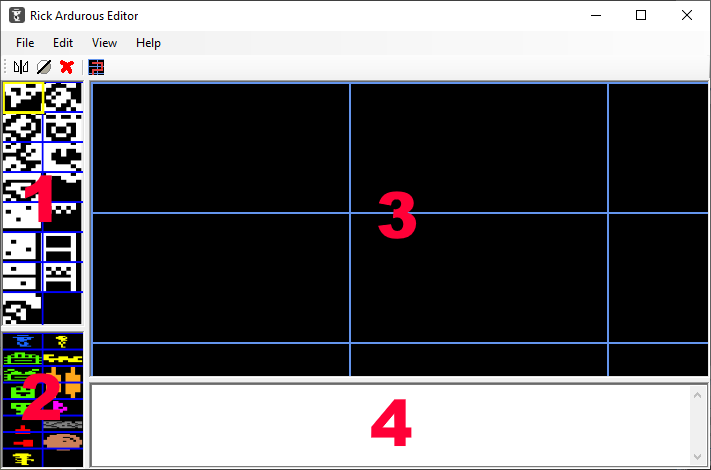
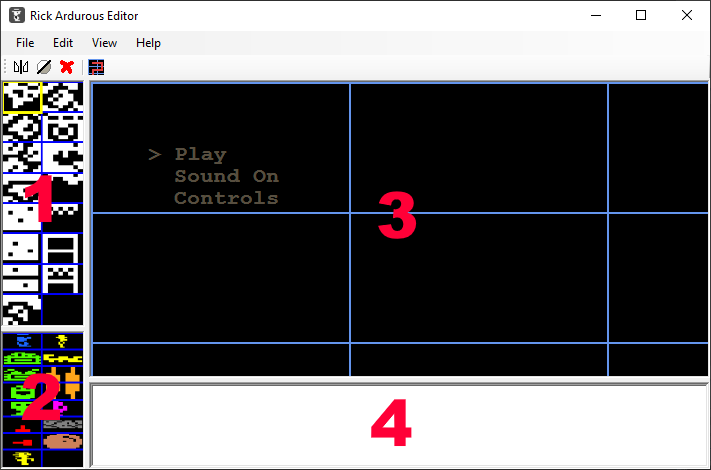
+ add all the images of the wall sprites and items for the doc + add a chapter for the special main menu puzzle screen | update the overview image

Changed region(s): [[0.0, 0.1489, 0.1238, 1.0], [0.1238, 0.0, 1.0, 1.0], [0.2475, 0.2979, 0.4023, 0.4468]]

diff --git a/Doc/Index.html b/Doc/Index.html
@@ -40,7 +40,9 @@
 	td.itemName {	text-align: right;
 					vertical-align: top;
 					width: 20%;
+					padding-top: 4px;
 					padding-right: 10px;
+					padding-bottom: 4px;
 					border-top: solid black 1px;}
 	td.itemFamily {	text-align: center;
 					vertical-align: top;
@@ -49,6 +51,11 @@
 					border-top: solid black 1px;}
 	td.itemDesc {	border-top: solid black 1px;
 					padding-bottom: 20px; }
+	span.icon	{	background-color: #c5c2ad;
+					padding: 4px;
+					margin-right: 12px;
+					display: inline-block;}
+	img.icon	{	vertical-align:middle; }
 </style>
 </head>
 <body>
@@ -70,11 +77,11 @@
 <p><i>Rick Ardurous</i> is open source. The repository is located here: <a href="https://github.com/Lswbanban/RickArdurous">https://github.com/Lswbanban/RickArdurous</a>. After cloning the repository you will find several folders:
 <ul>
 	<li>The base folder contains all the source files of the game. You should open the <b>RickArdurous.ino</b> file in the Arduino IDE if you want to recompile the game.</li>
+	<li>The <b>Release</b> folder contains the last compiled version of the Editor, as well as the packed version of the game. This is were you should go if you don't want to modify and recompile the game, but just play.</li>
 	<li>The <b>Doc</b> folder contains this documentation.</li>
-	<li>The <b>image</b> folder contains the images that were used to create the game. These images are also used by the Level Editor.</li>
+	<li>The <b>image</b> folder contains the images that were used to create the game (but they are not required for the game to run). These images are also used by the Level Editor.</li>
 	<li>The <b>RickArdurousEditor</b> folder contains the source files of the editor, written in C# with Visual Studio on Windows.</li>
 	<li>The <b>Publishing</b> folder contains all the files needed to create a packed version of the game.</li>
-	<li>The <b>Release</b> folder contains the last compiled version of the Editor, as well as the packed version of the game.</li>
 </ul>
 </p>
 
@@ -82,7 +89,7 @@
 <p>If you want to modify and recompile the game, you can open the <b>RickArdurous.ino</b> file located in the base folder, with the Arduino IDE. Otherwise if you just want to launch the game as it is with a game launcher, you can open the <b>RickArdurous.arduboy</b> file located in the <b>Release</b> folder.</p>
 
 <h2>The Level Editor</h2>
-<p>After cloning the repository, to launch the Level editor on Windows platform, run the <b>RickArdurousEditor.exe</b> executable located in the <b>Release</b> folder. Do not change the folder structure, as the editor reads files located in the parent folder and in the <b>image</b> folder.</p>
+<p>After cloning the repository, to launch the Level editor on Windows platform, run the <b>RickArdurousEditor.exe</b> executable located in the <b>Release</b> folder. If you change the folder structure, the editor will have trouble to reads the files located in the parent folder and in the <b>image</b> folder, however you can change those paths in the Preferences of the Editor (through the <i>File &gt; Preferences...</i> menu).</p>
 
 <h1>Level Editor</h1>
 <h2>Overview</h2>
@@ -91,7 +98,7 @@
 <ul>
 	<li>The panel (1) lists all the 16 possible sprites for the background of the map. You should select the sprite that you want to draw on the map, from this panel.</li>
 	<li>The panel (2) lists all the available items that can be placed in each puzzle screen. You should select the item you want to add on the map before clicking on the map.</li>
-	<li>The panel (3) contains the whole map of the game. It is split by puzzle screen with blue separator lines.</li>
+	<li>The panel (3) contains the whole map of the game. It is split by puzzle screen with blue separator lines. The top left screen display the Game Main Menu for reference (see <i>Level Design Tips</i> chapter below for more details).</li>
 	<li>The panel (4) is a log window, it displays information and warnings when necessary.</li>
 </ul>
 <img src="PanelOverview.png" class="center">
@@ -141,6 +148,16 @@
 
 <h1>Level Design Tips</h1>
 
+<h2>The Special Main Menu Puzzle Screen</h2>
+
+<p>For optimization reason, the Game will use the top left puzzle screen as background for the Main Menu. This is why the editor display the 3 menu items of the main menu on this corner. You can dedicate this puzzle screen to the main menu, but you can also reuse it in the game flow by integrating it in the puzzle path (see next chapter). However when this puzzle screen is used in the Main Menu, all the items except the stalagmites, the stalactites and Rick are ignored. Also a black square background is drawn under the text of the Main Menu for clarity.</p>
+
+<h2>Puzzle Path</h2>
+
+<p>In order to be saved, your map need to create an non-branching linear puzzle path. This means each puzzle screen must have connection(s) to only 2 neighbors. You can have multiple gate from one screen to the same neighbor, but a screen cannot have gates to 3 or 4 differents neighbors. The gate can be as large as you want, you can leave the whole edge empty if you wish. However, it is recommended to add a background sprite in each corner because a corner can connect to two different neighbors. Said differently, that means two edges of each puzzle screen must be completely filled with background sprites.</p>
+
+<p>On top of respecting the puzzle path constraint, you also need to specify a starting point, and a ending point. The starting point is specified with a bright Rick Spawn Point item (add this item on the map and click on the item state button in the toolbar to make it bright) and the ending point is specified with the grail item. There can only have one bright Rick Spawn Point and one Grail item in the map. The Editor will try to follow a path between these two specific items, follwing the connections between the puzzle screens. To visualize the path found by the editor, click on the draw puzzle screen path button in the toolbar.</p>
+
 <h2>The Static Collision Sprites</h2>
 
 <p>The map are created by placing 8x8 pixels sprites on a grid. The grid of a puzzle screen contains 16 sprites horizontaly and 8 sprites verticaly. However, only two pixels of the last line of sprites will be visible. This is because the whole puzzle screen is shifted downward by 6 pixels, in order to display the HUD on top of the screen. But those 2 visible pixels of the last line can still be used to create a walking platform for the player. Also this last line of sprite will be quickly displayed in its entirety during a vertical transition of the camera, when the player enter into a new puzzle screen above or below.</p>
@@ -150,66 +167,59 @@
 <table class="center itemTable" cellspacing="0">
 	<tr><th>Sprite Number</th><th>Family</th><th>Usage</th></tr>
 	<tr>
-		<td class="itemName">1</td>
+		<td class="itemName"><span class="icon"><img src="Wall1.png" class="icon"></span>1&nbsp;</td>
 		<td class="itemFamily">Rocky</td>
 		<td class="itemDesc">This is a rocky ceiling, used to make the ceiling not too borring. If you leave only one empty sprite under it, the player will have to crawl under to pass.</td>
 	</tr><tr>
-		<td class="itemName">2 and 3</td>
+		<td class="itemName"><span class="icon"><img src="Wall2.png" class="icon"></span>2&nbsp;<br/>and <span class="icon"><img src="Wall3.png" class="icon"></span>3&nbsp;</td>
 		<td class="itemFamily">Rocky</td>
 		<td class="itemDesc">These are two variation of the the rocky texture. You can use them in alternance to create a large wall of rock.</td>
 	</tr><tr>
-		<td class="itemName">4</td>
+		<td class="itemName"><span class="icon"><img src="Wall4.png" class="icon"></span>4&nbsp;</td>
 		<td class="itemFamily">Rocky</td>
 		<td class="itemDesc">This the rocky floor. You should use it every where you want the player to wall on a rocky platform (in conjunction with the stair step).</td>
 	</tr><tr>
-		<td class="itemName">8</td>
+		<td class="itemName"><span class="icon"><img src="Wall8.png" class="icon"></span>8&nbsp;</td>
 		<td class="itemFamily">Rocky</td>
 		<td class="itemDesc">This the rocky stair step. This one can be used to create a stair. It can extend the rocky floor nicely. This sprite will automatically mirror, if you place a non empty sprite on its right, so that you can create a stair going up on the right.</td>
 	</tr><tr>
-		<td class="itemName">9</td>
+		<td class="itemName"><span class="icon"><img src="Wall9.png" class="icon"></span>9&nbsp;</td>
 		<td class="itemFamily">Rocky</td>
 		<td class="itemDesc">This is a rocky vertical wall. This one should be used if you want to finish your rocky texture nicely. This sprite will automatically mirror, if you place a non empty sprite on its right. You can also use a sprite 2 and 3 as a wall, but the wall will look quite flat, with floating pixels.</td>
 	</tr><tr>
-		<td class="itemName">12</td>
+		<td class="itemName"><span class="icon"><img src="Wall12.png" class="icon"></span>12</td>
 		<td class="itemFamily">Rocky</td>
 		<td class="itemDesc">This is another rocky ceiling, but this one is thin. Player and ennemies can walk through it, even if there's just one empty sprite under this sprite. However the player cannot crawl through this sprite. Don't place this sprite if you want the player to crawl on this line.</td>
 	</tr><tr>
-		<td class="itemName">5</td>
+		<td class="itemName"><span class="icon"><img src="Wall5.png" class="icon"></span>5&nbsp;</td>
 		<td class="itemFamily">Stone</td>
 		<td class="itemDesc">This is a stone without vertical separtion line. You can place it on the left of the sprite 6 to create a long stone.</td>
 	</tr><tr>
-		<td class="itemName">6 and 7</td>
+		<td class="itemName"><span class="icon"><img src="Wall6.png" class="icon"></span>6&nbsp;<br/>and <span class="icon"><img src="Wall7.png" class="icon"></span>7&nbsp;</td>
 		<td class="itemFamily">Stone</td>
 		<td class="itemDesc">These are two variations of the the stone texture. Be carful, the player (and potentially Arrow Launchers) can shoot through the stone 7, which is not an intended feature.</td>
 	</tr><tr>
-		<td class="itemName">10 and 11</td>
+		<td class="itemName"><span class="icon"><img src="Wall10.png" class="icon"></span>10<br/>and <span class="icon"><img src="Wall11.png" class="icon"></span>11</td>
 		<td class="itemFamily">Stone</td>
 		<td class="itemDesc">Big stone statue. The intended usage is to create a 2x2 square, by placing 2 sprite 10 next to each other, and two sprite 11 below them. Those sprites will automatically mirror if they find a copy of themselves on their left.</td>
 	</tr><tr>
-		<td class="itemName">13</td>
+		<td class="itemName"><span class="icon"><img src="Wall13.png" class="icon"></span>13</td>
 		<td class="itemFamily">Platform</td>
 		<td class="itemDesc">The basic wooden platform. The player can walk on this platform, but can also jump through it (player will go through it during the ascending part of the jump, but will detect the collision while falling down).</td>
 	</tr><tr>
-		<td class="itemName">14</td>
+		<td class="itemName"><span class="icon"><img src="Wall14.png" class="icon"></span>14</td>
 		<td class="itemFamily">Platform</td>
 		<td class="itemDesc">This is the ladder sprite. The player can climb up along the ladder. If the player jump on a ladder, he will grab it.</td>
 	</tr><tr>
-		<td class="itemName">15</td>
+		<td class="itemName"><span class="icon"><img src="Wall15.png" class="icon"></span>15</td>
 		<td class="itemFamily">Platform</td>
 		<td class="itemDesc">A combination of the platform and ladder. Use it where you want the ladder to reach the platform. Player can use the down arrow key to climb the ladder down, if their character stands above this sprite.</td>
 	</tr><tr>
-		<td class="itemName">16</td>
-		<td class="itemFamily"></td>
+		<td class="itemName"><span class="icon"><img src="Wall16.png" class="icon"></span>16</td>
+		<td class="itemFamily">&nbsp;</td>
 		<td class="itemDesc">The empty sprite.</td>
 	</tr>
 </table>
-
-
-<h2>Puzzle Path</h2>
-
-<p>In order to be saved, your map need to create an non-branching linear puzzle path. This means each puzzle screen must have connection(s) to only 2 neighbors. You can have multiple gate from one screen to the same neighbor, but a screen cannot have gates to 3 or 4 differents neighbors. The gate can be as large as you want, you can leave the whole edge empty if you wish. However, it is recommended to add a background sprite in each corner because a corner can connect to two different neighbors. Said differently, that means two edges of each puzzle screen must be completely filled with background sprites.</p>
-
-<p>On top of respecting the puzzle path constraint, you also need to specify a starting point, and a ending point. The starting point is specified with a bright Rick Spawn Point item (add this item on the map and click on the item state button in the toolbar to make it bright) and the ending point is specified with the grail item. There can only have one bright Rick Spawn Point and one Grail item in the map. The Editor will try to follow a path between these two specific items, follwing the connections between the puzzle screens. To visualize the path found by the editor, click on the draw puzzle screen path button in the toolbar.</p>
 
 <h2>The Different Items</h2>
 
@@ -218,51 +228,51 @@
 <table class="center itemTable" cellspacing="0">
 	<tr><th>Item Type</th><th>Usage and Behavior</th></tr>
 	<tr>
-		<td class="itemName">Rick Spawn Point</td>
+		<td class="itemName"><span class="icon"><img src="ItemRick.png" class="icon"></span>Rick Spawn Point</td>
 		<td class="itemDesc">This item has two states. The bright state is the starting point of the game, and must be placed in your map. Also there must be only one bright Rick Spawn point in the map. Otherwise if there is no bright Rick Spawn Point, or if there's more than one, the editor will display an error when you will try to save your map.<br/>
 		<br/>
 		The other state, the dark state, is a checkpoint for when the player die. The player will respawn at the last checkpoint reached by the player, along the puzzle path (more precisely at the checkpoint located in the last puzzle screen reached by the player). Your are not obliged to place a checkpoint in every puzzle screen, especially if you want to make your puzzle harder, however, to avoid player frustration, usually you want to give a checkpoint to the player at the beggining of each puzzle screen.</td>
 	</tr><tr>
-		<td class="itemName">Bullet Crate</td>
+		<td class="itemName"><span class="icon"><img src="ItemBulletCrate.png" class="icon"></span>Bullet Crate</td>
 		<td class="itemDesc">This is a bonus item. When the player hits it, it will replenish their bullet count.</td>
 	</tr><tr>
-		<td class="itemName">Dynamite Crate</td>
+		<td class="itemName"><span class="icon"><img src="ItemDynamiteCrate.png" class="icon"></span>Dynamite Crate</td>
 		<td class="itemDesc">This is a bonus item. When the player hits it, it will replenish their dynamite count.</td>
 	</tr><tr>
-		<td class="itemName">Statuette</td>
+		<td class="itemName"><span class="icon"><img src="ItemStatuette.png" class="icon"></span>Statuette</td>
 		<td class="itemDesc">This is a bonus item. When the player hits it, it will disapear and increase the Statuette counter in the HUD. Statuettes are not mandatory to win the game, they are just an incentive for replayability. Once the player has finished the game, they will try to play again to collect all the Statuettes. Statuette items should be place next to a trap, so that it gives additionnal challenge to the player.</td>
 	</tr><tr>
-		<td class="itemName">Grail</td>
+		<td class="itemName"><span class="icon"><img src="ItemGrail.png" class="icon"></span>Grail</td>
 		<td class="itemDesc">This is the goal of the game. When the player hits this item, the game will finish immediately and display the winning screen. There can only be one Grail item in your map, and you must have one in order to be able to save your map.</td>
 	</tr><tr>
-		<td class="itemName">Vertical Spike</td>
+		<td class="itemName"><span class="icon"><img src="ItemVerticalSpike.png" class="icon"></span>Vertical Spike</td>
 		<td class="itemDesc">When the player hits a vertical spikes, they will die. Vertical spikes are undestructable. Enemies will also die if they hit a spike. This item is quite small, which makes it discreet, however it flashes regurlarily. You can mirror the spike to transform the upward spike into a downward spike.</td>
 	</tr><tr>
-		<td class="itemName">Horizontal Spike</td>
+		<td class="itemName"><span class="icon"><img src="ItemHorizontalSpike.png" class="icon"></span>Horizontal Spike</td>
 		<td class="itemDesc">Same as Vertical spike, but horizontal. You can mirror the spike to transform the right spike into a left spike.</td>
 	</tr><tr>
-		<td class="itemName">Mummy</td>
+		<td class="itemName"><span class="icon"><img src="ItemMummy.png" class="icon"></span>Mummy</td>
 		<td class="itemDesc">One of the 3 type of enemies. The Mummy are just doing a left/right patrolling animation. Their speed is quite low. They do not jump off platforms, but will turn around if they reach the end of the platform. They can trigger traps such as Stalactite and Arrow Launcher. They can be killed by bullets, arrows, dynamites, Stalagmites, Stalactites, Spikes, and Rolling Boulders.</td>
 	</tr><tr>
-		<td class="itemName">Skeleton</td>
+		<td class="itemName"><span class="icon"><img src="ItemSkeleton.png" class="icon"></span>Skeleton</td>
 		<td class="itemDesc">The second type of enemies. The Skeleton are attracted by the player, they just walk toward the player, disregarding their vertical position compared to the player position. Their speed is faster than Mummy. They can jump off platforms. They will stop moving only if they are blocked by a collision, or if they are aligned horizontaly with the player (above or under the player). They can trigger traps such as Stalactite and Arrow Launcher. They can be killed by bullets, arrows, dynamites, Stalagmites, Stalactites, Spikes, and Rolling Boulders.</td>
 	</tr><tr>
-		<td class="itemName">Scorpion</td>
+		<td class="itemName"><span class="icon"><img src="ItemScorpion.png" class="icon"></span>Scorpion</td>
 		<td class="itemDesc">The third type of enemies. The Scorpion are doing fast left/right patrolling animation with a pause before changing direction. Their speed is very fast. They do not jump off platforms, but will turn around if they reach the end of the platform. They do not trigger traps such as Stalactite and Arrow Launcher. They can be killed by dynamites, Stalagmites, Stalactites, Spikes, and Rolling Boulders. Theorically they could be killed by bullets and arrows, but since they are small, the bullet flies over their head when the player shoot and the player cannot shoot while jumping (which is the intended behavior). If you place an Arrow Launcher close to the ground it may hit a Scorpion, but again, the intended behavior is to have the arrow flying above the scorpion. The expected behavior for the player is to kill the Scorpion with a dynamite, or with a trap.</td>
 	</tr><tr>
-		<td class="itemName">Stalagmite</td>
+		<td class="itemName"><span class="icon"><img src="ItemStalagmite.png" class="icon"></span>Stalagmite</td>
 		<td class="itemDesc">The player and the ennemies will die if they touch the Stalagmite. The Stalagmite can be destroyed with a dynamite (placed next to it), a Rolling Boulder, or a Stalactite. Bullet and Arrows have no effect on the Stalactites.</td>
 	</tr><tr>
-		<td class="itemName">Stalactite</td>
+		<td class="itemName"><span class="icon"><img src="ItemStalactite.png" class="icon"></span>Stalactite</td>
 		<td class="itemDesc">The Stalactite is a trap. It waits with a shacking animation, and falls as soon as a trap triggerer goes under it. Trap triggerers are: the player, the Mummy, the Skeleton and the Rolling Boulder. The player, ennemies (all 3 types) and Stalagmites will die if they are hit by the Stalactite. The boulder will not die if it is hit by a Stalactite.</td>
 	</tr><tr>
-		<td class="itemName">Arrow Launcher</td>
+		<td class="itemName"><span class="icon"><img src="ItemArrowLauncher.png" class="icon"></span>Arrow Launcher</td>
 		<td class="itemDesc">The Arrow Launcher is another trap. It is a tricky trap as no animation is displayed to warn the player. The Arrow Launcher will launch an arrow from the mouth of the facial statue. You can mirror this item to make it fire its arrow in the other direction. Once you place an arrow launcher on the map, you can select it to adjust its trigger zone. To avoid incomprehension of the player, you should extend the trigger zone up to the collision, however, it is possible to create a shorter trigger zone. Once the Arrow launcher hase launched its arrow, there is a reloading time, before the second arrow is launched. Trap triggerers are: the player, the Mummy, the Skeleton and the Rolling Boulder.</td>
 	</tr><tr>
-		<td class="itemName">Destroyable Block</td>
+		<td class="itemName"><span class="icon"><img src="ItemDestroyableBlock.png" class="icon"></span>Destroyable Block</td>
 		<td class="itemDesc">This item is a passive path blocker. It doesn't kill player or ennemies when touched, but block their way. A destroyable block can be destroyed by placing a dynamite next to it, or by a Rolling Boulder.</td>
 	</tr><tr>
-		<td class="itemName">Rolling Boulder</td>
+		<td class="itemName"><span class="icon"><img src="ItemRollingBoulder.png" class="icon"></span>Rolling Boulder</td>
 		<td class="itemDesc">This item has two state. If placed on the map on the bright state, it will be spawn in the game in a rolling state, otherwise, the dark state boulder will be spawn immobile. You can mirror this item to change its rolling direction, it will roll in the direction where the shadow is drawn on the boulder. If you place a immobile boulder in the map, the player can make it move by placing a dynamite next to it. After the explosion of the dynamite, the boulder will move in the opposite direction of the dynamite. An immobile boulder is not dangerous for the player and ennemies, the player can jump on it, and the ennemies will be blocked by it. However a rolling boulder will kill the player and the enemies. A rolling boulder can fall off platform, but will stop rolling if it hits a collision, it will then become an immobile boulder.</td>
 	</tr>
 </table>

diff --git a/README.md b/README.md
@@ -18,8 +18,6 @@ This project is open source, both for the game and the Editor.
 - Editor
 	- Add a stats info display on the level in the View Menu
 	- MapManager::MAX_UPDATABLE_ITEM_COUNT can be computed by the Editor and saved in MapDataConstVariables
-- Doc
-	- Talk about the first level as being the main menu
 - Game Engine Optim
 	- add the PSTR()/F() macro around the menu strings?
 	- bug in Rick state machine, from Fall to Death (for example jump in dynamite explosion)
